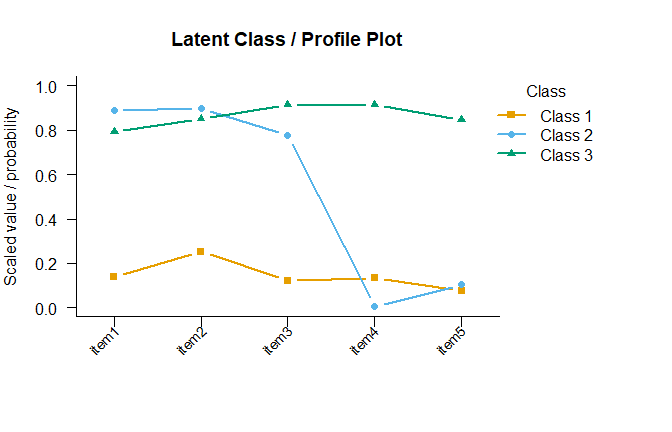
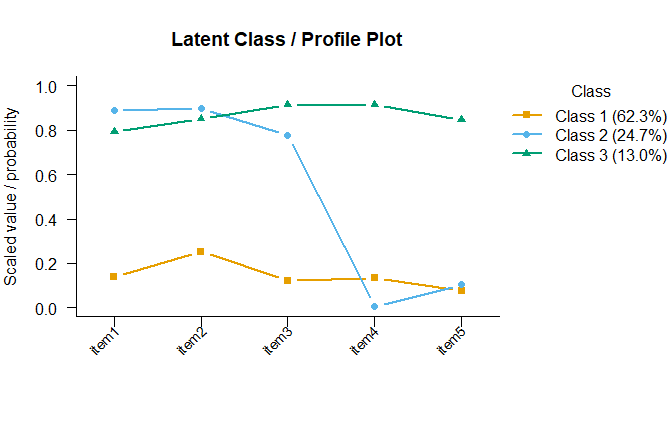
Minor update: Plot legends and rescaling sampling weights

Changed region(s): [[0.75, 0.1806, 1.0, 0.3912]]

diff --git a/README.md b/README.md
@@ -733,28 +733,28 @@ confint(fit_svy)
 #> 
 #> Intercept
 #>   Class 1 (Ref)       1.000        -        -
-#>   Class 2            79.572   28.168  224.783
-#>   Class 3            16.917    4.656   61.462
+#>   Class 2            76.476   27.101  215.811
+#>   Class 3            17.872    4.966   64.326
 #> 
 #> age
 #>   Class 1 (Ref)       1.000        -        -
-#>   Class 2             0.884    0.865    0.904
-#>   Class 3             0.916    0.892    0.940
+#>   Class 2             0.885    0.866    0.905
+#>   Class 3             0.915    0.892    0.939
 #> 
 #> sex.male
 #>   Class 1 (Ref)       1.000        -        -
-#>   Class 2             1.889    1.169    3.053
-#>   Class 3             0.680    0.364    1.270
+#>   Class 2             1.903    1.178    3.076
+#>   Class 3             0.682    0.366    1.269
 #> 
 #> educ.College
 #>   Class 1 (Ref)       1.000        -        -
-#>   Class 2             0.129    0.077    0.216
-#>   Class 3             0.291    0.142    0.596
+#>   Class 2             0.130    0.078    0.216
+#>   Class 3             0.287    0.141    0.586
 #> 
 #> educ.Graduate
 #>   Class 1 (Ref)       1.000        -        -
-#>   Class 2             0.058    0.032    0.105
-#>   Class 3             0.536    0.255    1.123
+#>   Class 2             0.057    0.032    0.103
+#>   Class 3             0.529    0.254    1.101
 #> =========================================================
 analytical_wald_test(fit_svy, "age")
 #> =========================================================
@@ -763,7 +763,7 @@ analytical_wald_test(fit_svy, "age")
 #>   Covariate : age
 #>   Method    : Survey-robust
 #> ---------------------------------------------------------
-#>   Wald χ²(2) = 132.998,  p < .001
+#>   Wald χ²(2) = 131.746,  p < .001
 #> =========================================================
 ```
 
